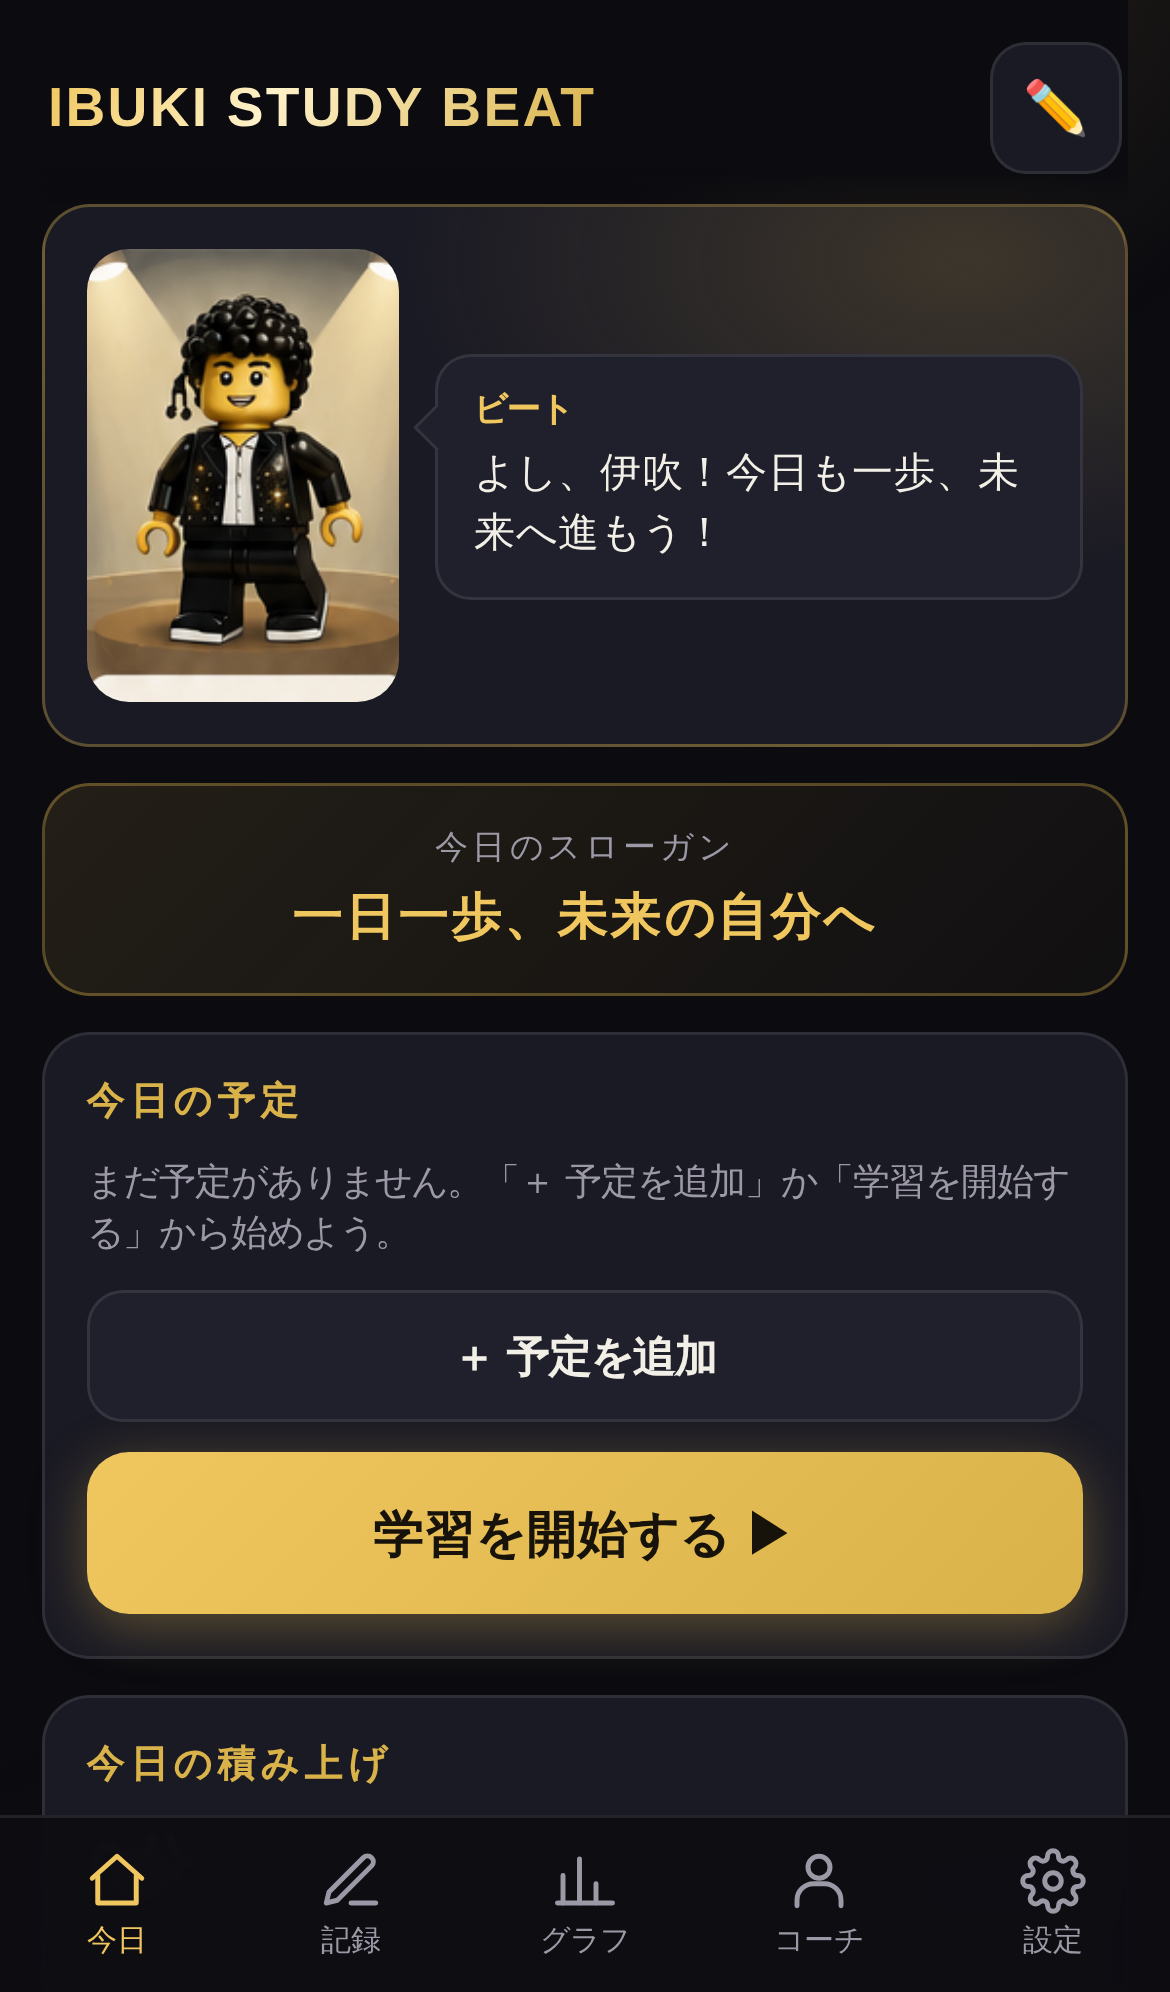
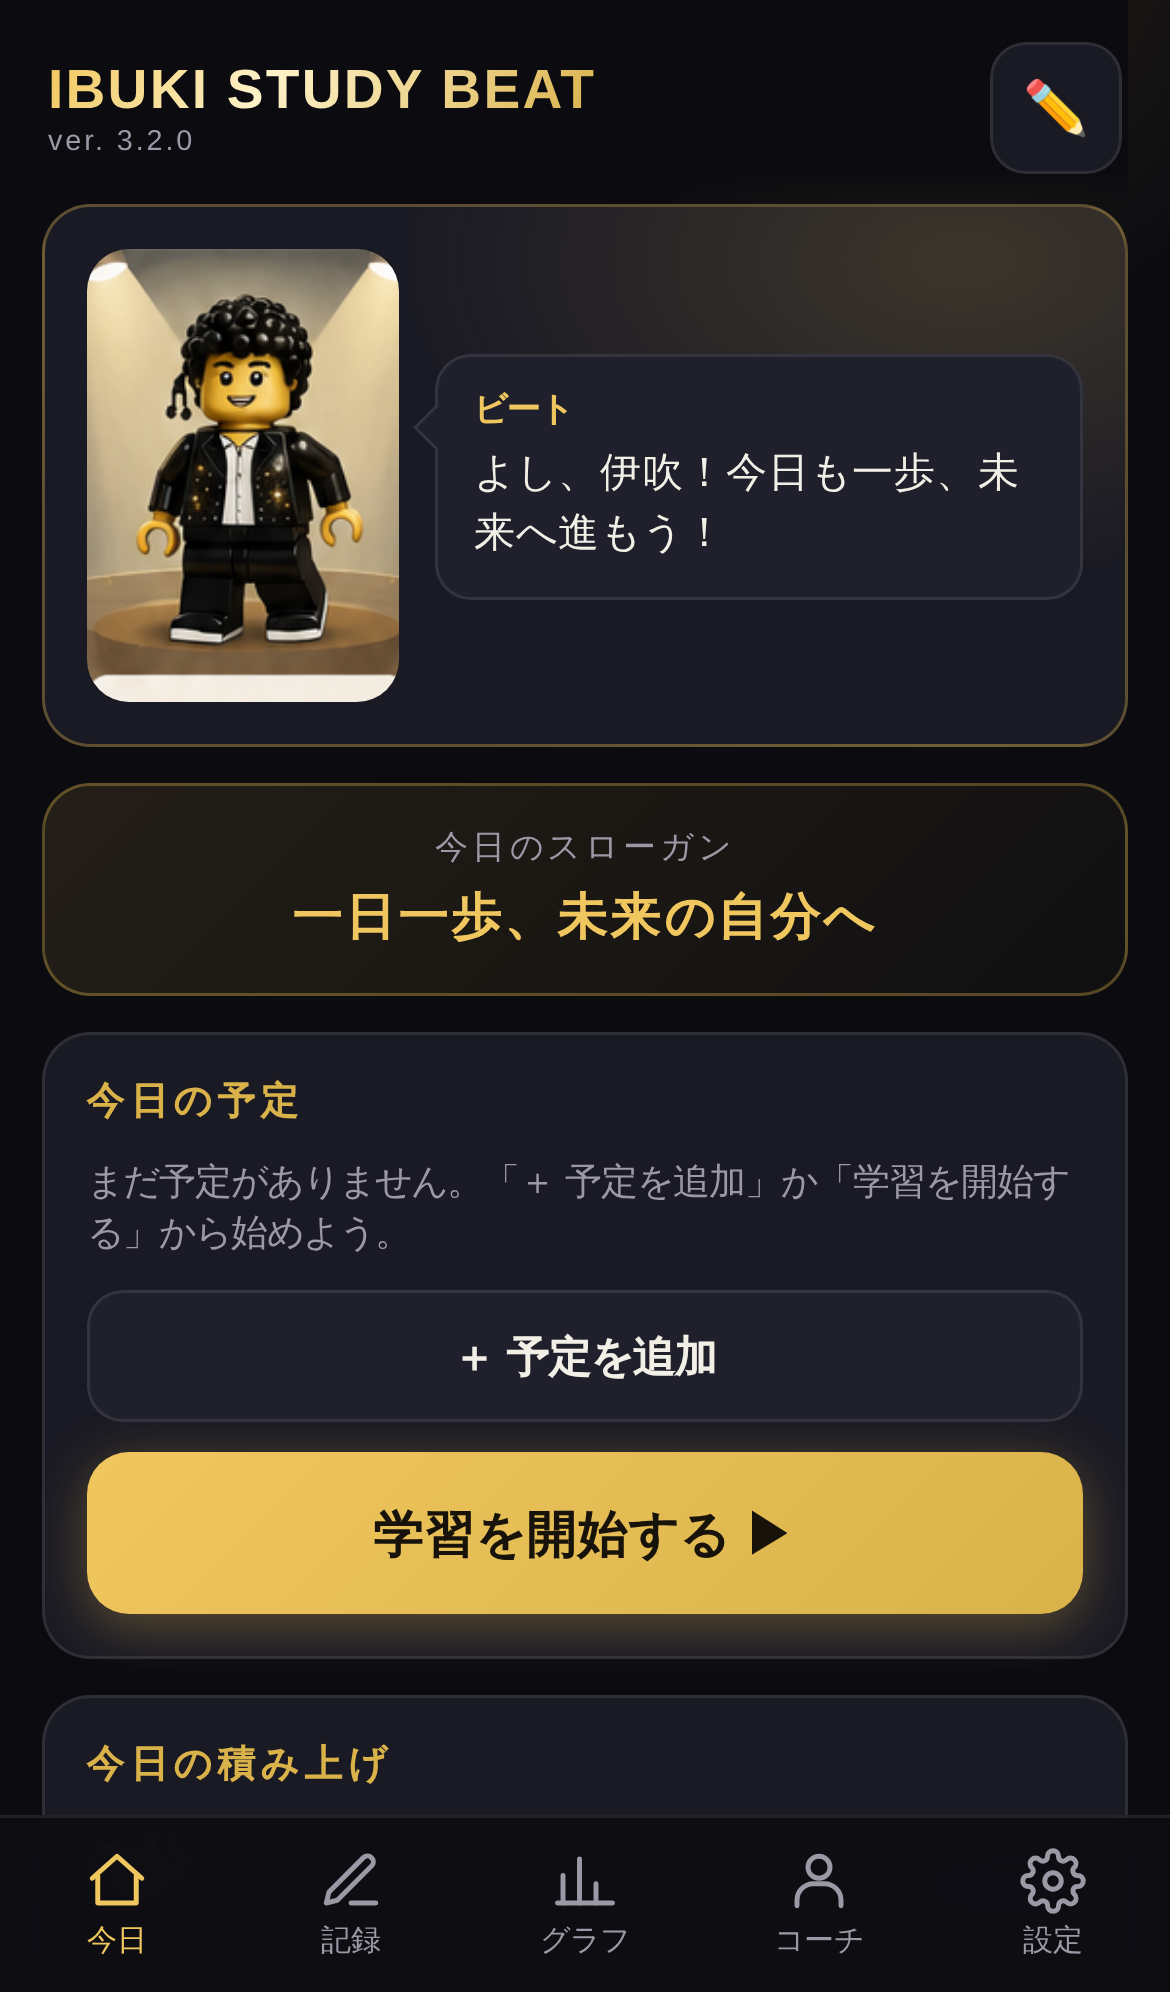
バージョン表示と自動アップデート通知を追加 (ver. 3.2.0)
- 画面上部(今日画面ヘッダー)にソフトバージョンを常時表示
- アプリを開いたとき、画面中央にBEATスターのあいさつメッセージを表示(4秒で自動的に閉じる)
- 新しい版が配信されたら画面中央に通知し、タップで即時更新して自動再読み込み
- 更新後の初回起動時に画面中央で「ver. A → B に更新できたよ」とお知らせ
- Service Workerは自動で切り替えず利用者の操作を待つ方式に変更(SKIP_WAITINGメッセージ)
- 起動時・前面復帰時・30分ごとに新版を自動確認
- 受け入れ試験に試験9(バージョン表示と中央メッセージ)を追加し51/51合格
- READMEにリリース手順(APP_VERSIONとCACHEの2か所を上げる)を明記

Claude-Session: https://claude.ai/code/session_01UmQKhNPcQEL1E4Hkts66e5

Changed region(s): [[0.0308, 0.0311, 0.5231, 0.0622]]

diff --git a/js/app.js b/js/app.js
@@ -3,6 +3,10 @@
   'use strict';
   var C = window.ISBCalc;
 
+  /* アプリのバージョン。更新時はここと sw.js の CACHE を一緒に上げる。
+   * 保存キー(KEY)は絶対に変えないこと(過去の記録が読めなくなるため)。 */
+  var APP_VERSION = '3.2.0';
+
   /* ================= ストレージ ================= */
   var KEY = 'ibukiStudyBeat.v3';
   var BACKUP_KEY = 'ibukiStudyBeat.v3.backup';
@@ -106,6 +110,39 @@
     toastTimer = setTimeout(hideToast, actionLabel ? 6000 : 3000);
   }
   function hideToast() { $('toast').classList.remove('show'); }
+
+  /* --- 画面中央メッセージ --- */
+  var centerTimer = null;
+  /**
+   * 画面中央にメッセージを表示する。
+   * opts: { title, body, sub, img, buttonLabel, autoCloseMs, onConfirm }
+   */
+  function showCenterMessage(opts) {
+    clearTimeout(centerTimer);
+    var el = $('center-msg');
+    $('cm-visual').innerHTML = opts.img ? charImg(opts.img, opts.title) : '';
+    $('cm-title').textContent = opts.title;
+    $('cm-body').innerHTML = esc(opts.body) + (opts.sub ? '<span class="cm-sub">' + esc(opts.sub) + '</span>' : '');
+    $('cm-version').textContent = 'ver. ' + APP_VERSION;
+    var btn = $('cm-btn');
+    btn.textContent = opts.buttonLabel || '閉じる';
+    btn.onclick = function () {
+      hideCenterMessage();
+      if (opts.onConfirm) opts.onConfirm();
+    };
+    el.classList.add('open');
+    if (opts.autoCloseMs) {
+      // あいさつは自動で閉じる。画面のどこをタップしてもすぐ閉じられる。
+      centerTimer = setTimeout(hideCenterMessage, opts.autoCloseMs);
+      el.onclick = function (e) { if (e.target === el) hideCenterMessage(); };
+    } else {
+      el.onclick = null;
+    }
+  }
+  function hideCenterMessage() {
+    clearTimeout(centerTimer);
+    $('center-msg').classList.remove('open');
+  }
 
   function openModal(html) {
     $('modal-body').innerHTML = html;
@@ -1589,7 +1626,7 @@
     openModal(
       '<h3>サポート・ヘルプ<button class="icon-btn" id="m-close">✕</button></h3>' +
       '<div class="small" style="line-height:1.9">' +
-      '<b>IBUKI STUDY BEAT</b> v3.0<br>' +
+      '<b>IBUKI STUDY BEAT</b> ver. ' + APP_VERSION + '<br>' +
       '一歩一歩が、未来のステージをつくる。<br><br>' +
       '・「今日」で予定を立てて学習開始 → 終了で自動記録<br>' +
       '・「記録」で後から追加・編集・削除(ごみ箱つき)<br>' +
@@ -1610,19 +1647,109 @@
     if (currentScreen === 'coach') renderCoach();
   }
 
+  /* --- 起動時のあいさつ(画面中央) --- */
+  var LAST_SEEN_VERSION_KEY = 'ibukiStudyBeat.lastSeenVersion';
+
+  function showWelcomeMessage() {
+    var lastSeen = null;
+    try { lastSeen = localStorage.getItem(LAST_SEEN_VERSION_KEY); } catch (e) {}
+    try { localStorage.setItem(LAST_SEEN_VERSION_KEY, APP_VERSION); } catch (e) {}
+
+    // 前回と違うバージョンで開いた = 更新後の初回起動
+    if (lastSeen && lastSeen !== APP_VERSION) {
+      showCenterMessage({
+        img: 'cele_nicebeat.png',
+        title: 'アプリが新しくなったよ！',
+        body: 'ver. ' + lastSeen + ' → ' + APP_VERSION + ' に更新できたよ。',
+        sub: '記録はぜんぶそのまま残っているから安心してね。',
+        buttonLabel: '今日も始める ▶',
+        onConfirm: function () { showScreen('today'); }
+      });
+      return;
+    }
+
+    var recs = todayRecords();
+    var total = 0;
+    recs.forEach(function (r) { total += r.actualMin; });
+    var streak = C.streakDays(state.records, todayStr());
+    var name = state.settings.userName || '伊吹';
+    var sub = '';
+    if (state.settings.examDate) {
+      var dd = C.diffDays(todayStr(), state.settings.examDate);
+      if (dd > 0) sub = '受験まであと ' + dd + '日';
+      else if (dd === 0) sub = 'いよいよ今日が本番！';
+    }
+    if (!sub && streak > 0) sub = streak + '日連続で積み上げ中！';
+    if (total > 0) sub = '今日はここまで ' + C.fmtDuration(total) + '。' + (sub ? ' / ' + sub : '');
+
+    showCenterMessage({
+      img: 'coach_stage.png',
+      title: (lastSeen ? 'おかえり、' : 'ようこそ、') + name + '！',
+      body: greeting(),
+      sub: sub,
+      buttonLabel: '今日も始める ▶',
+      autoCloseMs: 4000
+    });
+  }
+
+  /* --- アップデート検知(Service Worker) --- */
+  function setupServiceWorker() {
+    if (!('serviceWorker' in navigator) || location.protocol !== 'https:') return;
+
+    // 新しい版が有効になったら画面を読み込み直す(データはそのまま)
+    var reloading = false;
+    navigator.serviceWorker.addEventListener('controllerchange', function () {
+      if (reloading) return;
+      reloading = true;
+      location.reload();
+    });
+
+    navigator.serviceWorker.register('sw.js').then(function (reg) {
+      function offerUpdate(worker) {
+        if (!worker) return;
+        showCenterMessage({
+          img: 'cele_streak7.png',
+          title: '新しいバージョンがあるよ！',
+          body: 'アップデートを入れると、追加された機能が使えるようになるよ。',
+          sub: '学習の記録は消えないから大丈夫！',
+          buttonLabel: '🔄 いますぐ更新する',
+          onConfirm: function () {
+            toast('更新中…少し待ってね');
+            worker.postMessage({ type: 'SKIP_WAITING' });
+          }
+        });
+      }
+      // すでに新しい版が待機している場合
+      if (reg.waiting && navigator.serviceWorker.controller) offerUpdate(reg.waiting);
+      // 新しい版が届いた場合
+      reg.addEventListener('updatefound', function () {
+        var nw = reg.installing;
+        if (!nw) return;
+        nw.addEventListener('statechange', function () {
+          if (nw.state === 'installed' && navigator.serviceWorker.controller) offerUpdate(nw);
+        });
+      });
+      // アプリを開いたとき・前面に戻したとき、および定期的に新版を確認
+      function checkUpdate() { try { reg.update(); } catch (e) {} }
+      document.addEventListener('visibilitychange', function () {
+        if (!document.hidden) checkUpdate();
+      });
+      setInterval(checkUpdate, 30 * 60 * 1000);
+    }).catch(function () {});
+  }
+
   function init() {
     state = loadState();
     save();
     checkPoseUnlocks();
+    $('app-version').textContent = 'ver. ' + APP_VERSION;
     $('rf-date').value = todayStr();
     $('rf-kind').innerHTML = kindOptions('暗記');
     $('rf-subject').innerHTML = subjectOptions();
     renderToday();
+    showWelcomeMessage();
     if (storageWarning) toast(storageWarning, true);
-    // Service Worker (PWA)
-    if ('serviceWorker' in navigator && location.protocol === 'https:') {
-      navigator.serviceWorker.register('sw.js').catch(function () {});
-    }
+    setupServiceWorker();
   }
 
   init();

diff --git a/css/app.css b/css/app.css
@@ -67,6 +67,11 @@ input[type="color"] { padding: 2px; width: 44px; min-width: 44px; height: 44px; 
   background: linear-gradient(180deg, var(--bg) 82%, transparent);
 }
 .screen-head h1 { font-size: 1.05rem; letter-spacing: 0.06em; font-weight: 800; }
+.brand-wrap { display: flex; flex-direction: column; gap: 1px; min-width: 0; }
+.version-badge {
+  font-size: 0.6rem; letter-spacing: 0.1em; color: var(--dim);
+  font-variant-numeric: tabular-nums;
+}
 .screen-head .brand {
   font-size: 1.15rem; font-weight: 900; letter-spacing: 0.04em;
   background: linear-gradient(120deg, var(--gold-bright), #fff2c9 40%, var(--gold));
@@ -368,6 +373,39 @@ input[type="color"] { padding: 2px; width: 44px; min-width: 44px; height: 44px; 
 .toast.show { opacity: 1; transform: translateX(-50%) translateY(0); pointer-events: auto; }
 .toast.warn { border-color: rgba(224, 86, 79, 0.5); }
 .toast button { background: none; border: none; color: var(--gold-bright); font-weight: 800; font-size: 0.85rem; cursor: pointer; min-height: 32px; }
+
+/* 画面中央メッセージ(起動時のあいさつ・アップデート通知) */
+.center-msg {
+  position: fixed; inset: 0; z-index: 400;
+  background: rgba(6, 6, 10, 0.86);
+  backdrop-filter: blur(3px); -webkit-backdrop-filter: blur(3px);
+  display: none; align-items: center; justify-content: center;
+  padding: 24px;
+}
+.center-msg.open { display: flex; }
+.cm-card {
+  width: 100%; max-width: 340px; text-align: center;
+  background:
+    radial-gradient(ellipse 80% 60% at 50% 0%, rgba(217, 178, 74, 0.20) 0%, transparent 70%),
+    var(--surface);
+  border: 1px solid var(--gold-dim);
+  border-radius: 20px; padding: 22px 18px 16px;
+  box-shadow: 0 18px 50px rgba(0, 0, 0, 0.6);
+}
+.cm-visual { width: 132px; margin: 0 auto 12px; }
+.cm-visual:empty { display: none; }
+.cm-title {
+  font-size: 1.2rem; font-weight: 900; color: var(--gold-bright);
+  letter-spacing: 0.03em; line-height: 1.35;
+}
+.cm-body { font-size: 0.88rem; line-height: 1.6; color: var(--text); margin-top: 8px; }
+.cm-body .cm-sub { display: block; color: var(--dim); font-size: 0.78rem; margin-top: 6px; }
+.cm-card .btn { margin-top: 16px; }
+.cm-version { font-size: 0.62rem; color: var(--dim); letter-spacing: 0.1em; margin-top: 10px; }
+@media (prefers-reduced-motion: no-preference) {
+  .center-msg.open .cm-card { animation: cmIn 0.32s cubic-bezier(0.2, 0.9, 0.3, 1.2); }
+  @keyframes cmIn { 0% { transform: scale(0.86) translateY(12px); opacity: 0; } 100% { transform: scale(1) translateY(0); opacity: 1; } }
+}
 
 /* お祝い演出 */
 .celebrate {

diff --git a/index.html b/index.html
@@ -19,7 +19,10 @@
   <!-- ①今日 -->
   <section class="screen active" id="screen-today" aria-label="今日">
     <div class="screen-head">
-      <span class="brand">IBUKI STUDY BEAT</span>
+      <span class="brand-wrap">
+        <span class="brand">IBUKI STUDY BEAT</span>
+        <span class="version-badge" id="app-version">ver. -</span>
+      </span>
       <button class="head-btn" id="btn-rename-char" aria-label="キャラクター名を変更">✏</button>
     </div>
     <div id="today-banner"></div>
@@ -234,6 +237,17 @@
 
 <!-- トースト -->
 <div class="toast" id="toast"><span id="toast-text"></span><button id="toast-action" style="display:none"></button></div>
+
+<!-- 画面中央メッセージ(起動時のあいさつ・アップデート通知) -->
+<div class="center-msg" id="center-msg" role="dialog" aria-modal="true">
+  <div class="cm-card">
+    <div class="cm-visual" id="cm-visual"></div>
+    <div class="cm-title" id="cm-title"></div>
+    <div class="cm-body" id="cm-body"></div>
+    <button class="btn primary big block" id="cm-btn">閉じる</button>
+    <div class="cm-version" id="cm-version"></div>
+  </div>
+</div>
 
 <!-- お祝い演出 -->
 <div class="celebrate" id="celebrate">

diff --git a/sw.js b/sw.js
@@ -1,5 +1,5 @@
 /* IBUKI STUDY BEAT — Service Worker (オフライン対応) */
-var CACHE = 'isb-v3.1.0';
+var CACHE = 'isb-v3.2.0';
 var ASSETS = [
   './',
   './index.html',
@@ -29,11 +29,15 @@ var ASSETS = [
 ];
 
 self.addEventListener('install', function (e) {
+  // ここでは skipWaiting しない。
+  // 画面中央の「いますぐ更新する」を押してもらってから切り替える。
   e.waitUntil(
-    caches.open(CACHE).then(function (c) { return c.addAll(ASSETS); }).then(function () {
-      return self.skipWaiting();
-    })
+    caches.open(CACHE).then(function (c) { return c.addAll(ASSETS); })
   );
+});
+
+self.addEventListener('message', function (e) {
+  if (e.data && e.data.type === 'SKIP_WAITING') self.skipWaiting();
 });
 
 self.addEventListener('activate', function (e) {

diff --git a/TEST_RESULTS.md b/TEST_RESULTS.md
@@ -2,7 +2,7 @@
 
 実行日: 2026-08-05 / 環境: Playwright + Chromium (iPhone 13 viewport)
 
-**40/40 合格**
+**51/51 合格**
 
 | 結果 | 項目 | 詳細 |
 |---|---|---|
@@ -42,6 +42,17 @@
 | ✅ | 正常JSONの読み込みで復元 |  |
 | ✅ | 確認語なしでは消去されない |  |
 | ✅ | 二段階確認後に全消去 |  |
+| ✅ | 画面上にソフトバージョンを表示 | ver. 3.2.0 |
+| ✅ | アプリを開くと画面中央にメッセージを表示 |  |
+| ✅ | メッセージが画面中央に配置される | dx=0.0, dy=0.0 |
+| ✅ | 中央メッセージにもバージョンを表示 | ver. 3.2.0 |
+| ✅ | ボタンでメッセージを閉じられる |  |
+| ✅ | あいさつは自動で閉じる |  |
+| ✅ | 更新後の初回起動で「新しくなった」と中央に表示 |  アプリが新しくなったよ！ ver. 3.0.0 → 3.2.0 に更新できたよ。記録はぜんぶそのまま残っているから安心してね。 今日も始める ▶ ver. 3.2.0  |
+| ✅ | 更新メッセージで記録が残ることを明記 |  |
+| ✅ | バージョン更新をまたいでも記録は保持される | 1 → 1 |
+| ✅ | SWが「SKIP_WAITING」受信で更新へ切り替わる |  |
+| ✅ | SWは自動では切り替わらない(利用者の操作待ち) |  |
 | ✅ | コーチ: 発言保存+端末内ロジックの返答 |  |
 | ✅ | 320px幅で横スクロールが発生しない |  |
 | ✅ | 横向きでグラフを優先表示 | h=240 |
